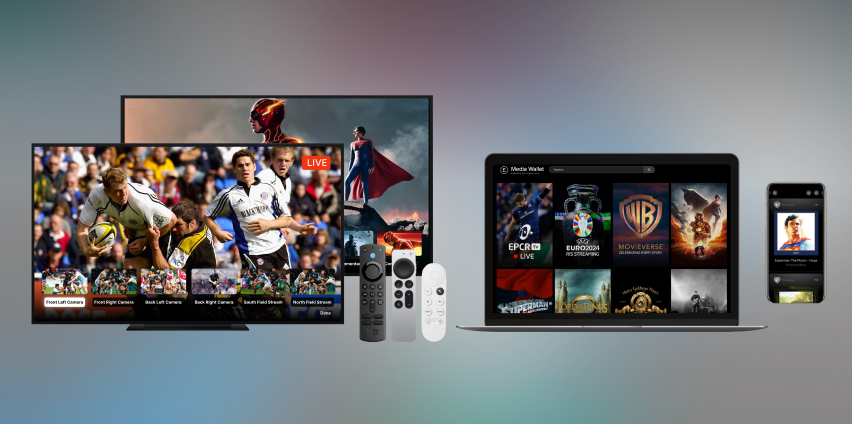
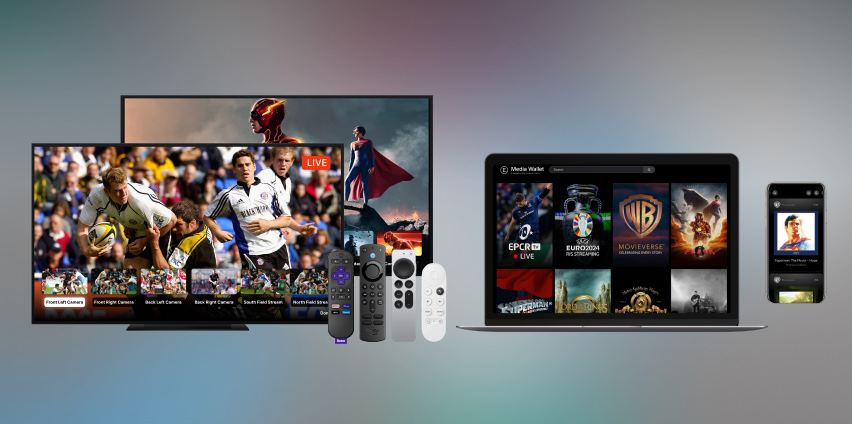
Update site to include roku (#66)

Changed region(s): [[0.3662, 0.5825, 0.4272, 0.8278]]

diff --git a/src/main/pages/main/MediaWallet.js b/src/main/pages/main/MediaWallet.js
@@ -6,17 +6,57 @@ import {Action, Button} from "../../components/Actions";
 import {Swiper, SwiperSlide} from "swiper/react";
 
 import {BlockchainIcon, PlayCircleIcon, PlaySimpleIcon, WalletIcon, FullDeviceListIcon} from "../../static/icons/Icons";
-import FeatureImage1 from "../../static/images/main/media_wallet/header_image_v2.png";
+import FeatureImage1 from "../../static/images/main/media_wallet/wallet-devices.png";
 import FeatureImage2 from "../../static/images/main/media_wallet/device_mockup_pc_mobile.png";
 import BackgroundImage from "../../static/images/main/media_wallet/08_background_image.jpg";
 import AppleTVButton from "../../static/images/main/media_wallet/apple_store.png";
 import AmazonAppstoreButton from "../../static/images/main/media_wallet/amazon_appstore.png";
 import GooglePlayButton from "../../static/images/main/media_wallet/android_store.png";
+import RokuButton from "../../static/images/main/media_wallet/Roku";
 
 import CarouselImages from "../../static/images/main/media_wallet/carousel";
 
+const FeatureBlockActions = observer(() => {
+  const {
+    apple_button_text,
+    google_button_text,
+    amazon_button_text,
+    roku_button_text,
+    apple_tv_url,
+    amazon_appstore_url,
+    google_play_url,
+    roku_channelstore_url
+  } = mainStore.l10n.media_wallet.feature_1;
+
+  return (
+    <div className="main-page-header__actions">
+      <a href={apple_tv_url} target="_blank" className="main-page-header__apple-tv-button" rel="noreferrer">
+        <ImageIcon icon={AppleTVButton} label={apple_button_text}/>
+      </a>
+      <a href={google_play_url} target="_blank" className="main-page-header__google-play-button" rel="noreferrer">
+        <ImageIcon icon={GooglePlayButton} label={google_button_text}/>
+      </a>
+      <a href={amazon_appstore_url} target="_blank" className="main-page-header__amazon-appstore-button"
+         rel="noreferrer">
+        <ImageIcon icon={AmazonAppstoreButton} label={amazon_button_text}/>
+      </a>
+      <a href={roku_channelstore_url} target="_blank" className="main-page-header__amazon-appstore-button"
+         rel="noreferrer">
+        <ImageIcon icon={RokuButton} label={roku_button_text}/>
+      </a>
+    </div>
+  );
+});
+
 const FeatureBlock1Mobile = observer(() => {
-  const {header, subheader, subheader_2, tagline, apple_button_text, google_button_text, amazon_button_text, apple_tv_url, getting_started_url, amazon_appstore_url, google_play_url, feature_image_subheader } = mainStore.l10n.media_wallet.feature_1;
+  const {
+    header,
+    subheader,
+    subheader_2,
+    tagline,
+    getting_started_url,
+    feature_image_subheader
+  } = mainStore.l10n.media_wallet.feature_1;
 
   return (
     <div className="main-page-header main-page-header__media-wallet">
@@ -42,17 +82,7 @@ const FeatureBlock1Mobile = observer(() => {
           </Action>
           <div className="main-page-header__info-links">
           </div>
-          <div className="main-page-header__actions">
-            <a href={apple_tv_url} target="_blank" className="main-page-header__apple-tv-button" rel="noreferrer">
-              <ImageIcon icon={AppleTVButton} label={apple_button_text}/>
-            </a>
-            <a href={google_play_url} target="_blank" className="main-page-header__google-play-button" rel="noreferrer">
-              <ImageIcon icon={GooglePlayButton} label={google_button_text}/>
-            </a>
-            <a href={amazon_appstore_url} target="_blank" className="main-page-header__amazon-appstore-button" rel="noreferrer">
-              <ImageIcon icon={AmazonAppstoreButton} label={amazon_button_text}/>
-            </a>
-          </div>
+          <FeatureBlockActions />
         </div>
       </div>
     </div>
@@ -65,8 +95,9 @@ const FeatureBlock1 = observer(() => {
     subheader,
     subheader_2,
     tagline,
-    apple_button_text,
-    google_button_text, amazon_button_text, apple_tv_url, getting_started_url, amazon_appstore_url, google_play_url, feature_image_subheader} = mainStore.l10n.media_wallet.feature_1;
+    getting_started_url,
+    feature_image_subheader
+  } = mainStore.l10n.media_wallet.feature_1;
 
   return (
     <div className="main-page-header">
@@ -94,17 +125,7 @@ const FeatureBlock1 = observer(() => {
               {subheader_2}
             </a>
           </div>
-          <div className="main-page-header__actions">
-            <a href={apple_tv_url} target="_blank" className="main-page-header__apple-tv-button" rel="noreferrer">
-              <ImageIcon icon={AppleTVButton} label={apple_button_text} />
-            </a>
-            <a href={google_play_url} target="_blank" className="main-page-header__google-play-button" rel="noreferrer">
-              <ImageIcon icon={GooglePlayButton} label={google_button_text} />
-            </a>
-            <a href={amazon_appstore_url} target="_blank" className="main-page-header__amazon-appstore-button" rel="noreferrer">
-              <ImageIcon icon={AmazonAppstoreButton} label={amazon_button_text} />
-            </a>
-          </div>
+          <FeatureBlockActions />
         </div>
       </div>
     </div>

diff --git a/src/main/pages/main/CompatibleDevices.js b/src/main/pages/main/CompatibleDevices.js
@@ -5,10 +5,25 @@ import {mainStore} from "../../stores/Main";
 import AndroidDeviceCSV from "../../static/documents/device-matrix-android.csv";
 import FireDeviceCSV from "../../static/documents/device-matrix-fire-tv.csv";
 import AppleDeviceCSV from "../../static/documents/device-matrix-tvOS.csv";
+import RokuDeviceCSV from "../../static/documents/device-matrix-roku.csv";
 import {SearchIcon} from "../../static/icons/Icons";
 import ImageIcon from "../../components/ImageIcon";
 import DevicesGraphic from "../../static/images/main/media_wallet/devices-graphic.png";
 import {PageContainer} from "../../MainApp";
+
+const DevicesList = () => {
+  return (
+    <div className="compatible-devices__item-links">
+      <a href={AppleDeviceCSV} download="Device Matrix - Apple TV.csv">Apple TV</a>
+      <span className="compatible-devices__item-links-separator">|</span>
+      <a href={AndroidDeviceCSV} download="Device Matrix - Android TV.csv">Android TV</a>
+      <span className="compatible-devices__item-links-separator">|</span>
+      <a href={FireDeviceCSV} download="Device Matrix - FireTV.csv">Amazon Fire TV</a>
+      <span className="compatible-devices__item-links-separator">|</span>
+      <a href={RokuDeviceCSV} download="Device Matrix - Roku.csv">Roku</a>
+    </div>
+  );
+};
 
 const AutocompleteResults = ({
   searchTerm,
@@ -35,13 +50,7 @@ const AutocompleteResults = ({
             </h3>
             <div className="compatible-devices__autocomplete-results-subheader">
               <span>Download our <span className="compatible-devices__download-text">Full Device Matrix</span> for more information.</span>
-              <div className="compatible-devices__item-links">
-                <a href={AppleDeviceCSV} download="Device Matrix - Apple TV.csv">Apple TV</a>
-                <span className="compatible-devices__item-links-separator">|</span>
-                <a href={AndroidDeviceCSV} download="Device Matrix - Android TV.csv">Android TV</a>
-                <span className="compatible-devices__item-links-separator">|</span>
-                <a href={FireDeviceCSV} download="Device Matrix - FireTV.csv">Amazon Fire TV</a>
-              </div>
+              <DevicesList />
             </div>
           </div> :
           <ul>
@@ -159,20 +168,22 @@ const CompatibleDevices = observer(() => {
     const getData = async() => {
       const androidResponse = await fetch(AndroidDeviceCSV);
       const fireResponse = await fetch(FireDeviceCSV);
+      const rokuResponse = await fetch(RokuDeviceCSV);
 
-      for(const response of [androidResponse, fireResponse]) {
+      for(const response of [androidResponse, fireResponse, rokuResponse]) {
         const reader = response.body.getReader();
         const result = await reader.read();
         const decoder = new TextDecoder("utf-8");
         const csv = decoder.decode(result.value);
         const results = Papa.parse(csv, { header: true });
         results.data.forEach(row => {
-          rows.push(`${row["Brand"] || row["Version"]} ${row["Device"] || ""}`);
+          rows.push(`${row["Brand"] || row["Version"] || row["Current Roku models"]} ${row["Device"] || ""}`);
         });
       }
 
       rows.sort();
-      setDeviceList(rows);
+      const uniqueRows = [...new Set(rows)];
+      setDeviceList(uniqueRows);
     };
 
     getData();
@@ -199,13 +210,7 @@ const CompatibleDevices = observer(() => {
             <div className="compatible-devices__item-description">
               {more_info.description}
               <div className="compatible-devices__item-description-download-text">{more_info.download_text}</div>
-              <div className="compatible-devices__item-links">
-                <a href={AppleDeviceCSV} download="Device Matrix - Apple TV.csv">Apple TV</a>
-                <span className="compatible-devices__item-links-separator">|</span>
-                <a href={AndroidDeviceCSV} download="Device Matrix - Android TV.csv">Android TV</a>
-                <span className="compatible-devices__item-links-separator">|</span>
-                <a href={FireDeviceCSV} download="Device Matrix - FireTV.csv">Amazon Fire TV</a>
-              </div>
+              <DevicesList />
             </div>
           </div>
           <AutocompleteSearch setShowImage={setShowImage} deviceList={deviceList} />

diff --git a/src/main/pages/features/TenancyLevels.js b/src/main/pages/features/TenancyLevels.js
@@ -63,13 +63,13 @@ const TenanciesList = observer(({monthly=false}) => {
   const tablet = mobile && uiStore.pageWidth > 700;
 
   const tenancyCards = (
-    mainStore.l10n.features.tenancies.levels.map(({header, sub_header, monthly_price, annual_price, added_benefit_text, added_benefit_percentage, features}) => (
+    mainStore.l10n.features.tenancies.levels.map(({header, sub_header, monthly_price, annual_price, added_benefit_text, added_benefit_percentage, features, additional_cost_text}) => (
       <TenancyInfo
         key={header}
         header={header}
         subHeader={sub_header}
         monthlyPrice={monthly ? monthly_price : annual_price}
-        additionalCostText="+ utility fees"
+        additionalCostText={additional_cost_text || "+ utility fees"}
         addedBenefitPercentage={added_benefit_percentage}
         addedBenefitText={added_benefit_text}
         features={features}

diff --git a/src/main/pages/features/TenancyInfo.js b/src/main/pages/features/TenancyInfo.js
@@ -37,7 +37,7 @@ const TenancyInfo = observer(({
 
       <div className="tenancy-info__pricing">
         <div className="tenancy-info__pricing-amount">{ monthlyPrice || "" }</div>
-        <div className={`tenancy-info__pricing-rate tenancy-info__pricing-rate--${additionalCostText.length < 15 ? "column" : "row"}`}>
+        <div className={`tenancy-info__pricing-rate tenancy-info__pricing-rate--${additionalCostText.length < 35 ? "column" : "row"}`}>
           <span>per month</span>
           <span>{ additionalCostText }</span>
         </div>
